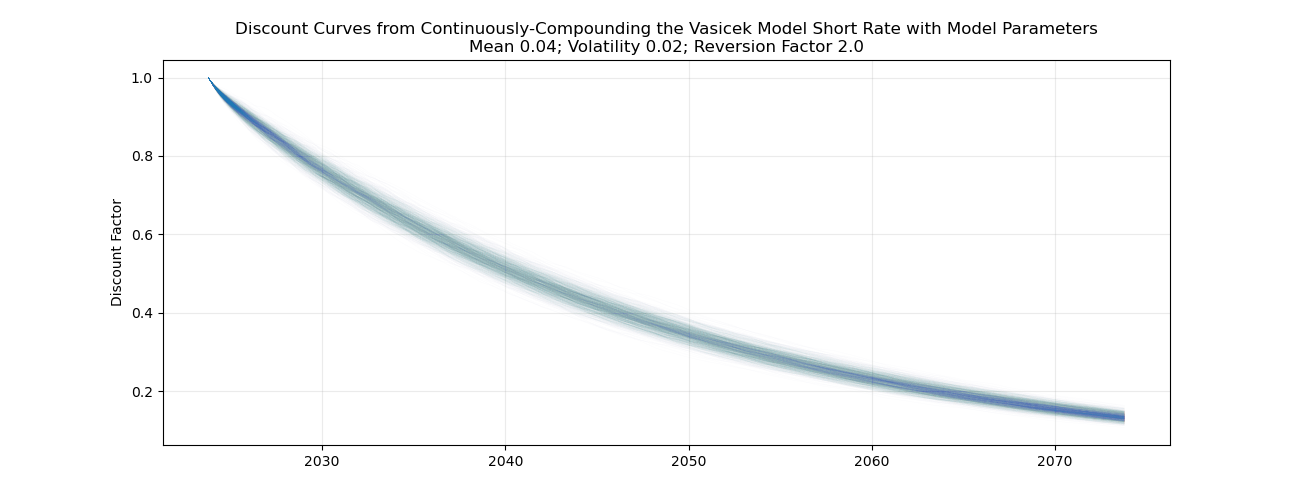
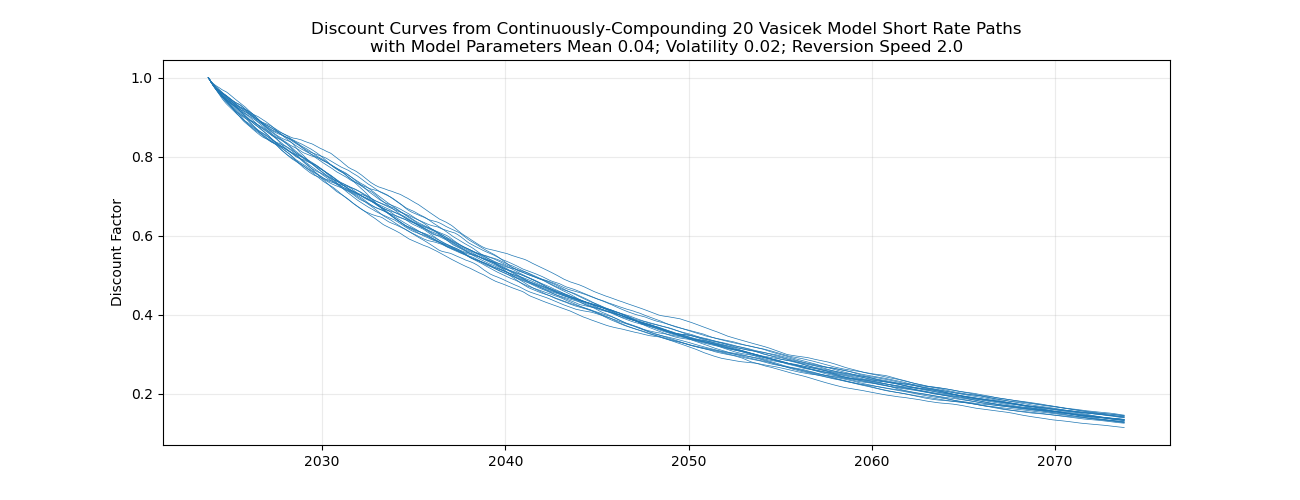
new vasicek model discount curves image

diff --git a/fixedIncome/src/stochastics/short_rate_models/one_factor_models/vasicek_model.py b/fixedIncome/src/stochastics/short_rate_models/one_factor_models/vasicek_model.py
@@ -132,7 +132,7 @@ if __name__ == '__main__':
     plt.savefig('../../../../../../fixedIncome/docs/images/Vasicek_Short_Rate.png')
     plt.show()
 
-    NUM_CURVES = 1_000
+    NUM_CURVES = 20
     plt.figure(figsize=(13, 5))
     for seed in range(NUM_CURVES):
         vm.generate_path(starting_value=0.08, set_path=True, seed=seed)
@@ -144,13 +144,14 @@ if __name__ == '__main__':
                                                        max_dates=1_000_000)
 
         discount_factors = [vm_df_curve(date_obj) for date_obj in dates]
-        plt.plot(dates, discount_factors, color='tab:blue', alpha=0.01, linewidth=0.5)
+        plt.plot(dates, discount_factors, color='tab:blue', alpha=1, linewidth=0.5)
         print(seed)
 
 
     plt.grid(alpha=0.25)
-    plt.title(f'Discount Curves from Continuously-Compounding the Vasicek Model Short Rate with Model Parameters\n'
-              f'Mean {vm.long_term_mean}; Volatility {vm.volatility}; Reversion Speed {vm.reversion_speed}')
+    plt.title(f'Discount Curves from Continuously-Compounding {NUM_CURVES} Vasicek Model Short Rate Paths\n'
+              f'with Model Parameters Mean {vm.long_term_mean}; '
+              f'Volatility {vm.volatility}; Reversion Speed {vm.reversion_speed}')
     plt.ylabel('Discount Factor')
     plt.savefig('../../../../../../fixedIncome/docs/images/Vasicek_Discount_Curves.png')
     plt.show()
